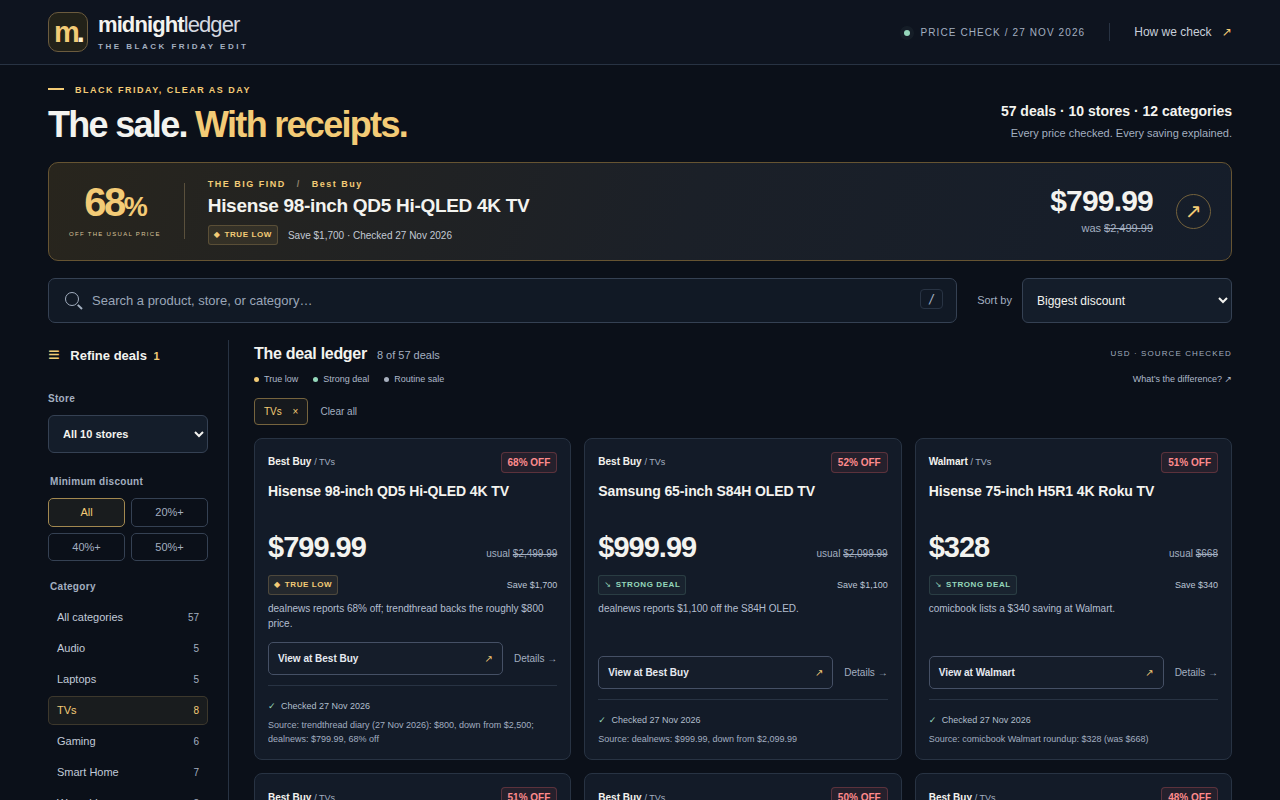
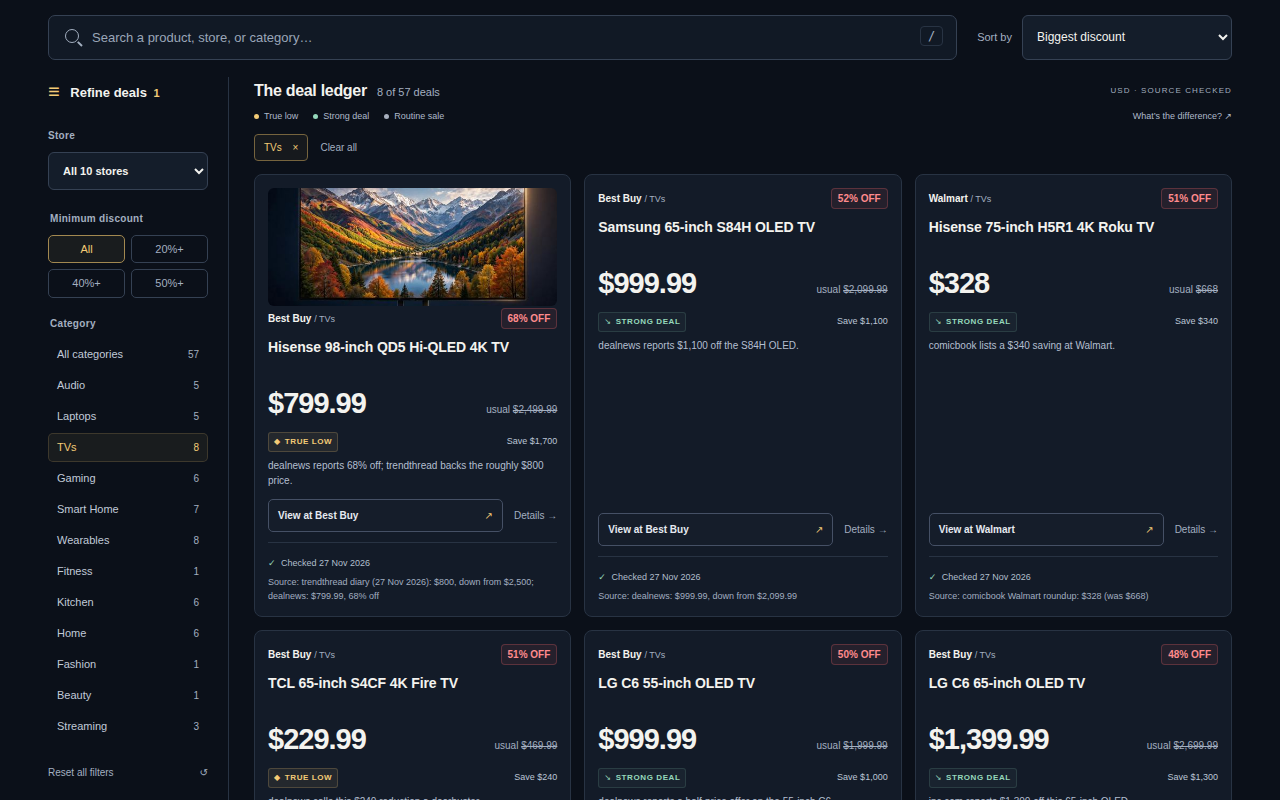
Upgrade screenshots: product photos for hero + top cards, dense Gaming/TVs/phone frames
- Local product photos (app/images/, ~90KB total) for the Hisense 98-inch TV hero, Paramount+ Premium, Michael Kors bag, and Blink Outdoor 4 bundle; wired into card, hero, and detail rendering. No price, store, link, or verdict changed (data.js diff is only the 4 image lines).
- Frame 2 replaced: dense Gaming grid (6 cards, Gaming filter chip visible).
- Frame 3 re-shot scrolled past the hero: 6 TV cards, TVs filter chip visible.
- Frame 4 re-shot scrolled 760px: stacked phone cards fill the frame.
- Cover re-shot as direct JPEG capture (1280x800, 124KB) — PNG exceeded the 256 KiB cap; JPEG is a capture-format choice, no post-capture pixel edits.

diff --git a/app/style.css b/app/style.css
@@ -54,6 +54,7 @@ h1, h2, h3, p { margin: 0; }
 .hero-product { min-width: 0; }
 .hero-product h2 { font-size: 19px; line-height: 1.3; font-weight: 650; letter-spacing: -0.3px; margin-top: 3px; }
 .hero-product p { display: flex; align-items: center; flex-wrap: wrap; gap: 10px; font-size: 10px; color: #c3cad5; margin-top: 6px; }
+.hero-image{width:190px;height:104px;object-fit:cover;border-radius:8px;flex-shrink:0}
 .hero-divider { color: #93856e; margin: 0 7px; }
 .hero-price { text-align: right; margin-left: auto; white-space: nowrap; }
 .hero-price strong { display: block; font-size: 30px; line-height: 1.1; letter-spacing: -0.8px; }
@@ -112,6 +113,7 @@ legend, .field-label { color: var(--muted); font-size: 10px; font-weight: 600; l
 .deal-grid { display: grid; grid-template-columns: repeat(3, minmax(0, 1fr)); gap: 13px; }
 .deal-card { display: flex; flex-direction: column; min-width: 0; border: 1px solid var(--line); border-radius: 8px; padding: 13px; background: var(--panel); transition: border-color 130ms, background 130ms; }
 .deal-card:hover { border-color: #536078; background: var(--panel-hover); }
+.card-image{width:100%;height:118px;object-fit:cover;border-radius:6px;display:block;margin-bottom:2px}
 .card-top { display: flex; justify-content: space-between; gap: 8px; align-items: center; }
 .store-name { font-weight: 650; font-size: 10px; line-height: 1.4; }
 .card-category { color: var(--muted); font-size: 9px; font-weight: 400; }
@@ -160,6 +162,7 @@ code { color: #ffe0a1; font: 700 11px ui-monospace, monospace; letter-spacing: 0
 .breadcrumbs a { color: var(--gold); }
 .deal-detail { display: grid; grid-template-columns: minmax(0, 1fr) 355px; gap: 35px 60px; }
 .detail-main { padding-top: 8px; }
+.detail-image{width:100%;max-height:300px;object-fit:cover;border-radius:8px;display:block;margin:12px 0 4px}
 .detail-main h1 { font-size: clamp(30px, 3.6vw, 47px); line-height: 1.12; font-weight: 700; letter-spacing: -1.7px; margin: 14px 0 23px; max-width: 710px; }
 .detail-verdict { padding: 15px 18px; border-left: 2px solid var(--gold); background: #f3cb7608; }
 .detail-verdict .verdict { font-size: 10px; }
@@ -215,6 +218,7 @@ code { color: #ffe0a1; font: 700 11px ui-monospace, monospace; letter-spacing: 0
   .catalog-count { font-size: 12px; }
   .intro-meta > p:last-child { display: none; }
   .hero-strip { display: grid; grid-template-columns: 56px minmax(0, 1fr); gap: 8px 14px; padding: 12px 13px; border-radius: 8px; }
+  .hero-image{display:none}
   .hero-discount { padding: 0 12px 0 0; grid-row: 1 / 3; align-self: stretch; display: flex; flex-direction: column; justify-content: center; }
   .hero-discount strong { font-size: 31px; letter-spacing: -1.5px; }
   .hero-discount strong span { font-size: 17px; }

diff --git a/app/views.js b/app/views.js
@@ -28,6 +28,7 @@ function dealNotes(deal) {
 
 export function cardMarkup(deal) {
   return `<article class="deal-card" data-deal-id="${htmlText(deal.id)}">
+    ${deal.image ? `<img class="card-image" src="${htmlText(deal.image)}" alt="">` : ''}
     <div class="card-top"><span class="store-name">${htmlText(deal.store)} <span class="card-category">/ ${htmlText(deal.category)}</span></span><span class="discount-badge">${deal.discount}% OFF</span></div>
     <h3><a href="#/deal/${encodeURIComponent(deal.id)}">${htmlText(deal.title)}</a></h3>
     <div class="card-prices"><strong class="price">${priceText(deal, deal.price)}</strong><span class="usual">usual <s>${priceText(deal, deal.was)}</s></span></div>
@@ -76,6 +77,7 @@ export function listMarkup(model) {
   <section class="hero-strip" aria-label="Featured deal">
     <div class="hero-discount"><strong>${featured.discount}<span>%</span></strong><span>OFF THE USUAL PRICE</span></div>
     <div class="hero-product"><div class="eyebrow">THE BIG FIND <span class="hero-divider">/</span> ${htmlText(featured.store)}</div><h2><a href="#/deal/${featured.id}">${htmlText(featured.title)}</a></h2><p>${verdictBadge(featured)}<span>Save ${dollars(featured.saving)} · Checked <time datetime="${featured.checked}">27 Nov 2026</time></span></p></div>
+    ${featured.image ? `<img class="hero-image" src="${htmlText(featured.image)}" alt="">` : ''}
     <div class="hero-price"><strong>${dollars(featured.price)}</strong><span>was <s>${dollars(featured.was)}</s></span></div>
     <a class="hero-arrow" href="#/deal/${featured.id}" aria-label="See the Hisense 98-inch TV deal">↗</a>
   </section>
@@ -100,6 +102,7 @@ export function detailMarkup(deal, backHash) {
   <article class="deal-detail" data-deal-id="${deal.id}">
     <div class="detail-main">
       <div class="eyebrow">${htmlText(deal.category)} <span class="hero-divider">/</span> ${htmlText(deal.store)}</div>
+      ${deal.image ? `<img class="detail-image" src="${htmlText(deal.image)}" alt="">` : ''}
       <h1>${htmlText(deal.title)}</h1>
       <div class="detail-verdict">${verdictBadge(deal)}<p>${htmlText(deal.evidence)}</p></div>
       <div class="detail-conditions"><h2>Before you buy</h2>${dealNotes(deal) || '<p>No extra code or condition is listed in the cited report.</p>'}<p>Check the matching model, final price, and availability at the store. Store search results may include other versions.</p></div>

diff --git a/app/data.js b/app/data.js
@@ -112,6 +112,7 @@ export const deals = [
   },
   {
     id: 'hisense-98-qd5',
+    image: 'images/hisense-98-qd5.jpg',
     title: 'Hisense 98-inch QD5 Hi-QLED 4K TV',
     store: 'Best Buy', category: 'TVs', price: 799.99, was: 2499.99,
     verdict: 'TRUE LOW',
@@ -255,6 +256,7 @@ export const deals = [
   },
   {
     id: 'blink-outdoor4-bundle',
+    image: 'images/blink-outdoor4-bundle.jpg',
     title: 'Blink Outdoor 4 Camera + Battery Doorbell 2K+ bundle',
     store: 'Amazon', category: 'Smart Home', price: 66, was: 260,
     verdict: 'TRUE LOW',
@@ -528,6 +530,7 @@ export const deals = [
   },
   {
     id: 'michael-kors-bag',
+    image: 'images/michael-kors-bag.jpg',
     title: 'Michael Kors East West Chain Crossbody Bag',
     store: 'Walmart', category: 'Fashion', price: 65, was: 278,
     verdict: 'TRUE LOW',
@@ -549,6 +552,7 @@ export const deals = [
   },
   {
     id: 'paramount-plus',
+    image: 'images/paramount-plus.jpg',
     title: 'Paramount+ Premium',
     store: 'Paramount+', category: 'Streaming', price: 2.99, was: 13.99,
     verdict: 'TRUE LOW',
